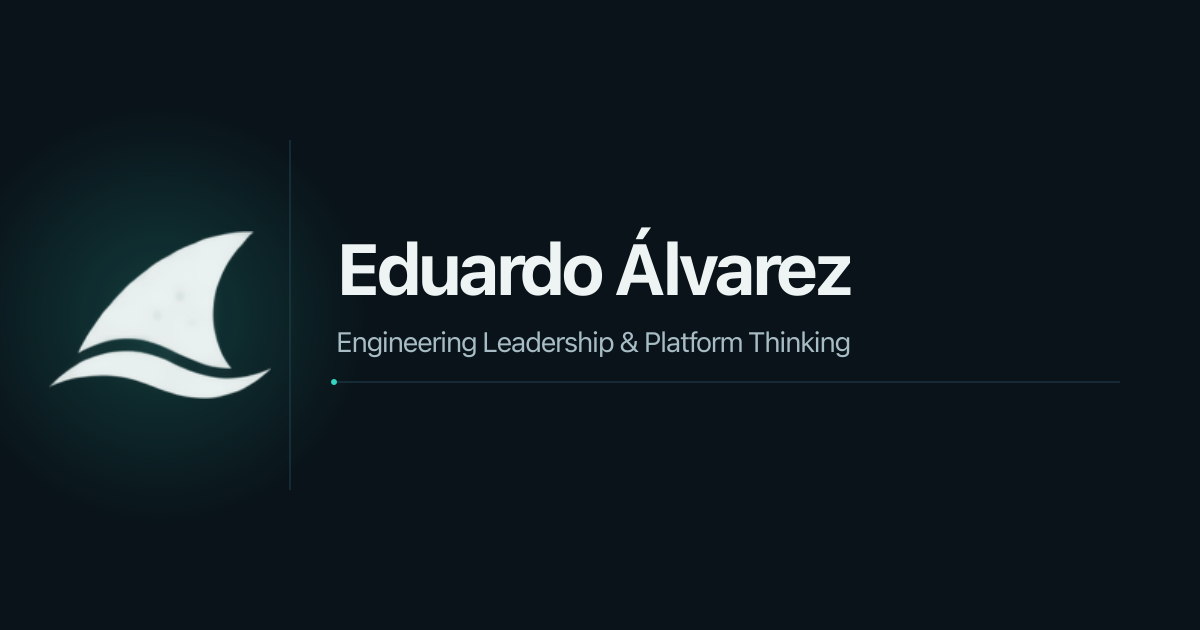
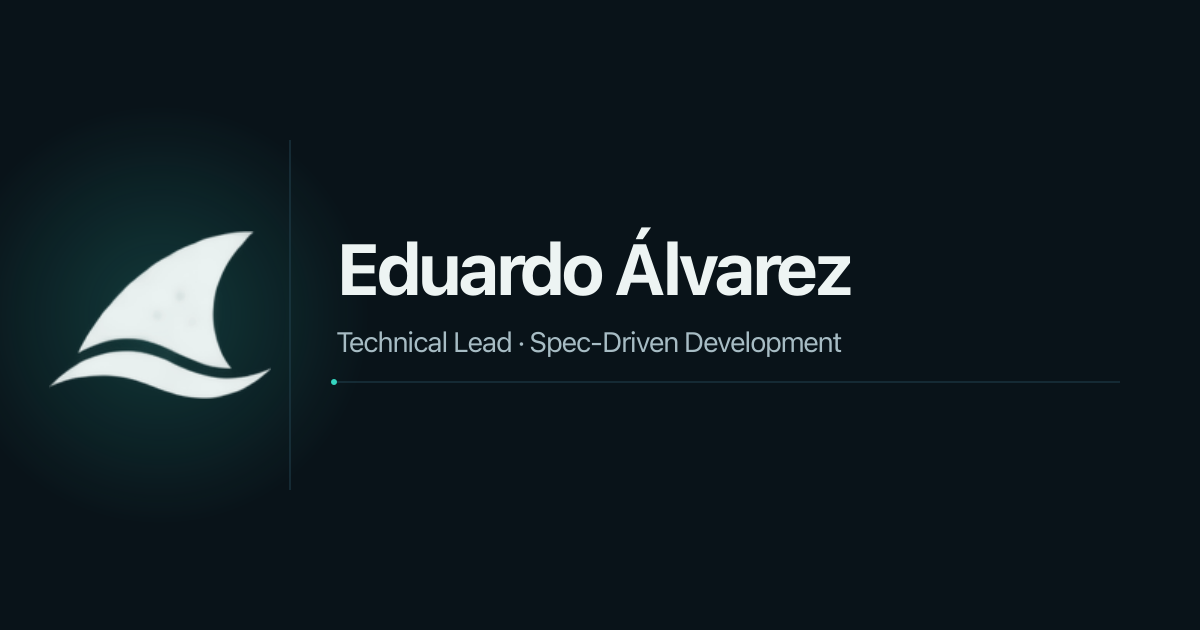
feat(brand): reposition the site as Technical Lead · Spec-Driven Development
Replace the retired Engineering Leadership / Platform Thinking positioning
with the approved bajada, short bio and lockup line across the hero, about
page, SEO metadata, JSON-LD, manifest, splash screen and default OG image.

Changed region(s): [[0.2775, 0.5127, 0.7092, 0.573]]

diff --git a/src/settings/index.ts b/src/settings/index.ts
@@ -1,9 +1,9 @@
 export default {
   title: "Eduardo Álvarez",
   description:
-    "Engineering Leadership & Platform Thinking in the AI Era. Artículos, charlas y recursos sobre liderazgo de ingeniería, arquitectura de plataformas y desarrollo de software.",
+    "Technical Lead · Spec-Driven Development. Enseño a construir software con IA sin dejar de entender lo que hacemos. Artículos, charlas y cursos sobre desarrollo con IA.",
   keywords:
-    "engineering leadership, platform architecture, platform thinking, AI era, engineering culture, software architecture, engineering management, staff engineer, typescript, react, node, astro",
+    "spec-driven development, sdd, desarrollo con ia, agentes de ia, technical lead, liderazgo técnico, frontend, software architecture, typescript, react, node, astro",
   url: "https://eduardoalvarez.dev",
   repo_url: "https://github.com/Proskynete/eduardoalvarez.dev",
   language: "es-ES",
@@ -15,7 +15,7 @@ export default {
      citan (Perplexity, ChatGPT Search) leen el texto de la página. La usan
      /speaking y /newsletter (openspec: seo-author-attribution). */
   authorInlineBio: {
-    text: "Escrito por Eduardo Álvarez, Engineering Leader con foco en liderazgo técnico, plataformas y la era de la IA.",
+    text: "Escrito por Eduardo Álvarez, Technical Lead. Enseña a construir software con IA sin dejar de entender lo que hacemos.",
     href: "/about",
     cta: "Conoce más →",
   },

diff --git a/src/components/subscribe/subscribe-form.tsx b/src/components/subscribe/subscribe-form.tsx
@@ -64,7 +64,7 @@ export function SubscribeForm() {
   return (
     <div ref={container}>
       <NewsletterForm
-        title="Artículos sobre liderazgo, plataforma y la era de la IA"
+        title="Artículos sobre desarrollo con IA y Spec-Driven Development"
         description="Una edición mensual. Directamente en tu correo, sin intermediarios y sin ruido."
         state={state}
         onSubmitEmail={subscribe}

diff --git a/src/settings/manifest-config.ts b/src/settings/manifest-config.ts
@@ -3,7 +3,7 @@ import { dark } from "@eduardoalvarez/arrecife/tokens";
 import config from "./index";
 
 export default {
-  name: "Eduardo Álvarez — Engineering Leadership",
+  name: "Eduardo Álvarez — Technical Lead",
   short_name: "Eduardo Álvarez",
   description: config.description,
   lang: "es",
